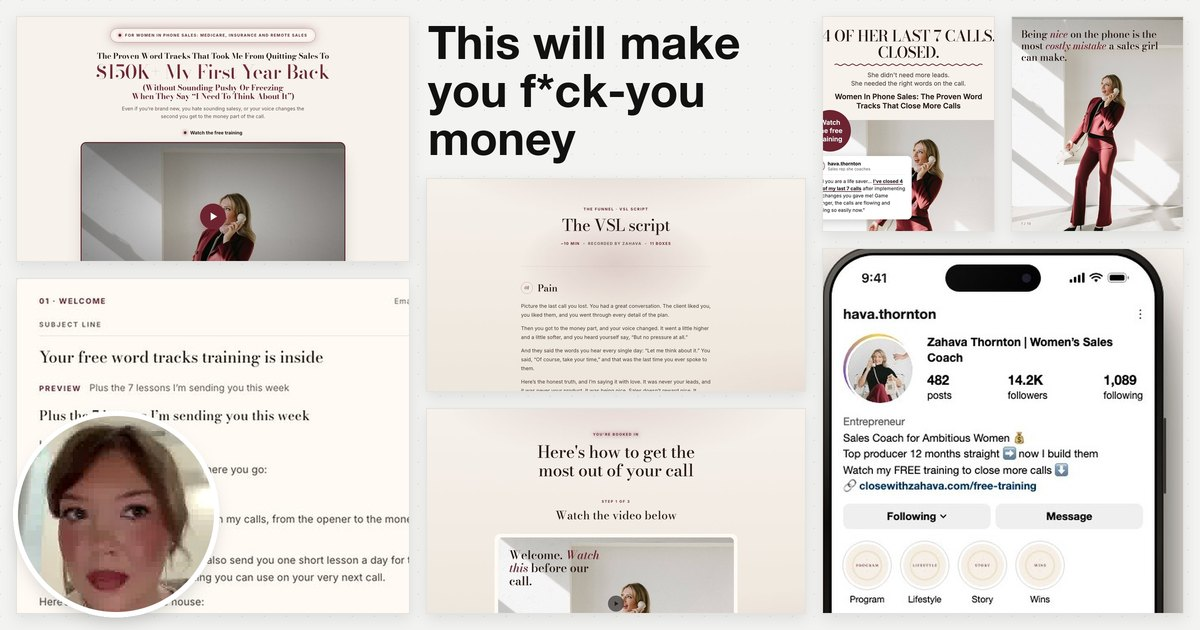
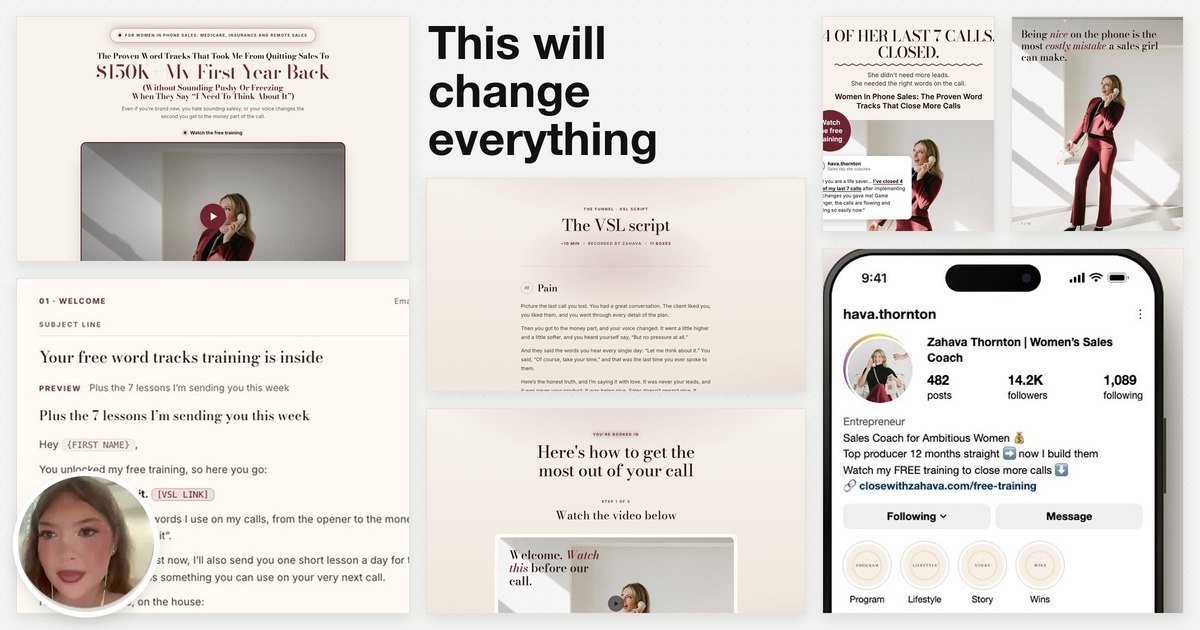
Preview: This will change everything, smaller face

Changed region(s): [[0.0, 0.6333, 0.185, 0.9952], [0.3392, 0.1206, 0.5858, 0.2714], [0.4933, 0.0302, 0.6167, 0.0905]]

diff --git a/index.html b/index.html
@@ -8,14 +8,14 @@
   <meta name="robots" content="noindex" />
   <meta property="og:title" content="Zahava, adding an extra $50k/mo to your personal brand" />
   <meta property="og:description" content="Zahava, adding an extra $50k/mo to your personal brand" />
-  <meta property="og:image" content="https://nikola424.github.io/for-zahava/og.jpg?v=4" />
+  <meta property="og:image" content="https://nikola424.github.io/for-zahava/og.jpg?v=5" />
   <meta property="og:image:width" content="1200" />
   <meta property="og:image:height" content="630" />
   <meta property="og:url" content="https://nikola424.github.io/for-zahava/" />
   <meta property="og:type" content="website" />
   <meta name="twitter:card" content="summary_large_image" />
   <meta name="twitter:title" content="Zahava, adding an extra $50k/mo to your personal brand" />
-  <meta name="twitter:image" content="https://nikola424.github.io/for-zahava/og.jpg?v=4" />
+  <meta name="twitter:image" content="https://nikola424.github.io/for-zahava/og.jpg?v=5" />
   <!-- Generated per build from the PROSPECT'S logo: node scripts/make_favicon.js {folder} -->
   <link rel="icon" href="assets/img/favicon.png" type="image/png" />
   <link rel="apple-touch-icon" href="assets/img/apple-touch-icon.png" />
